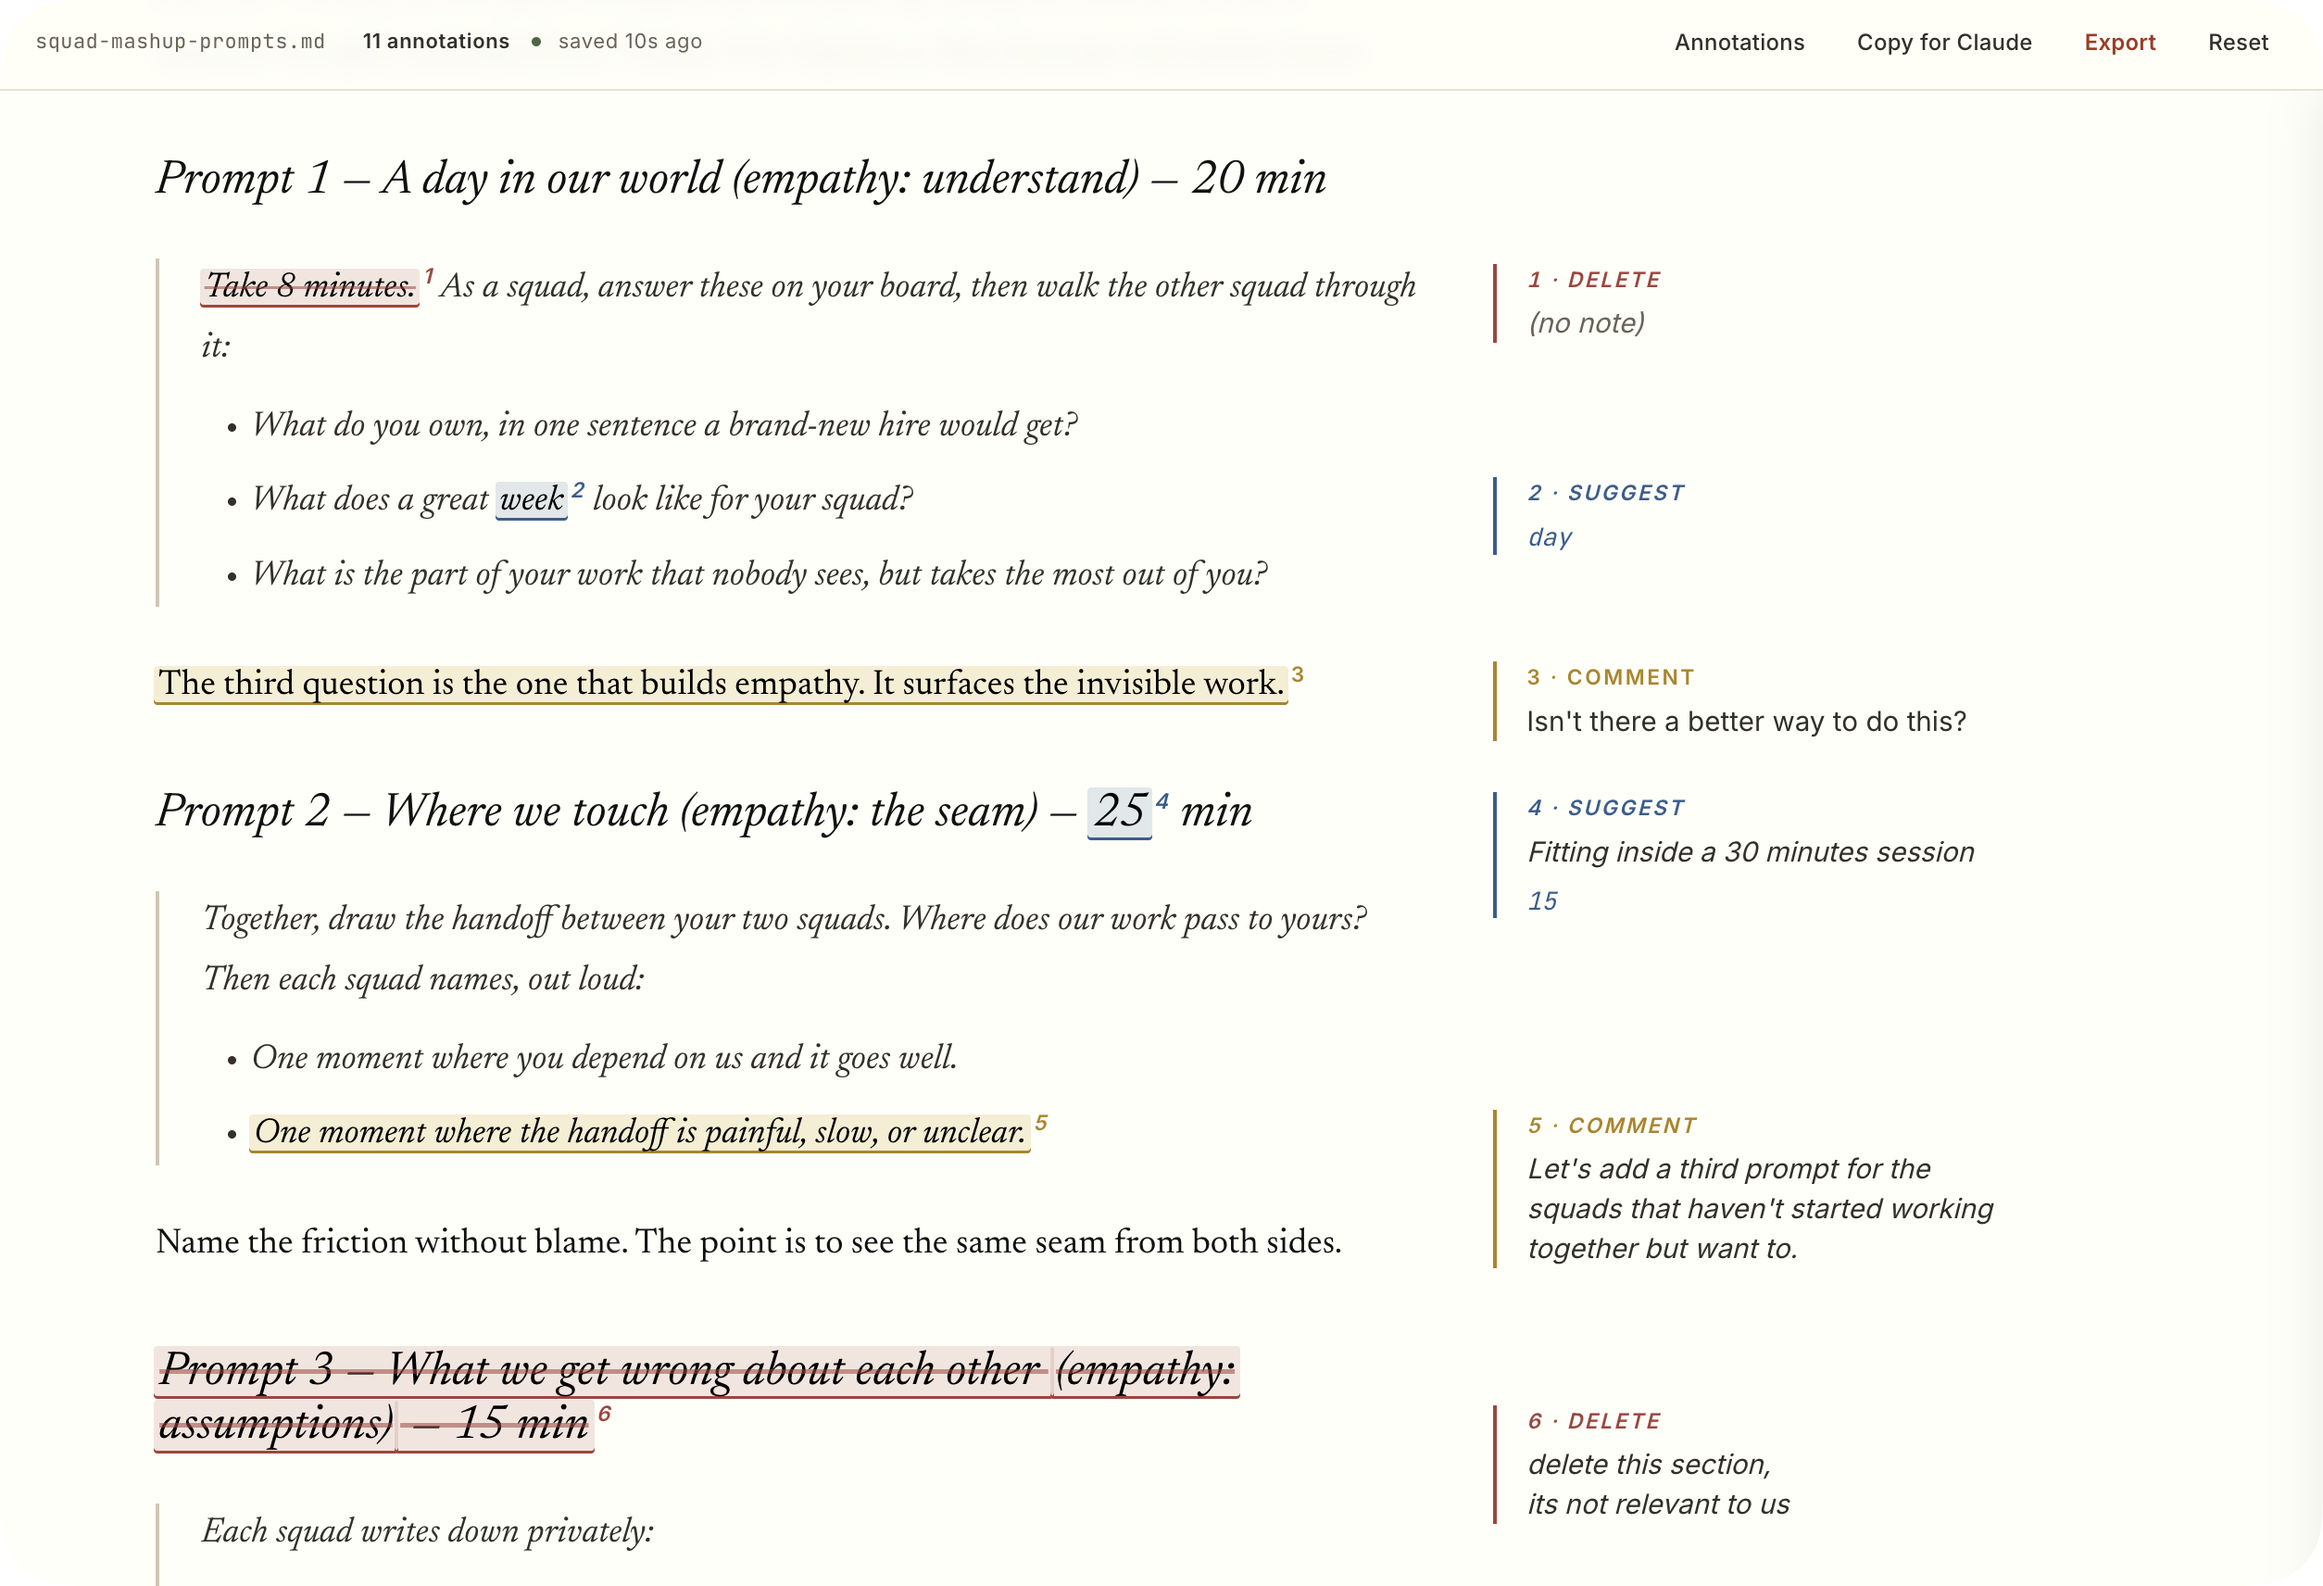
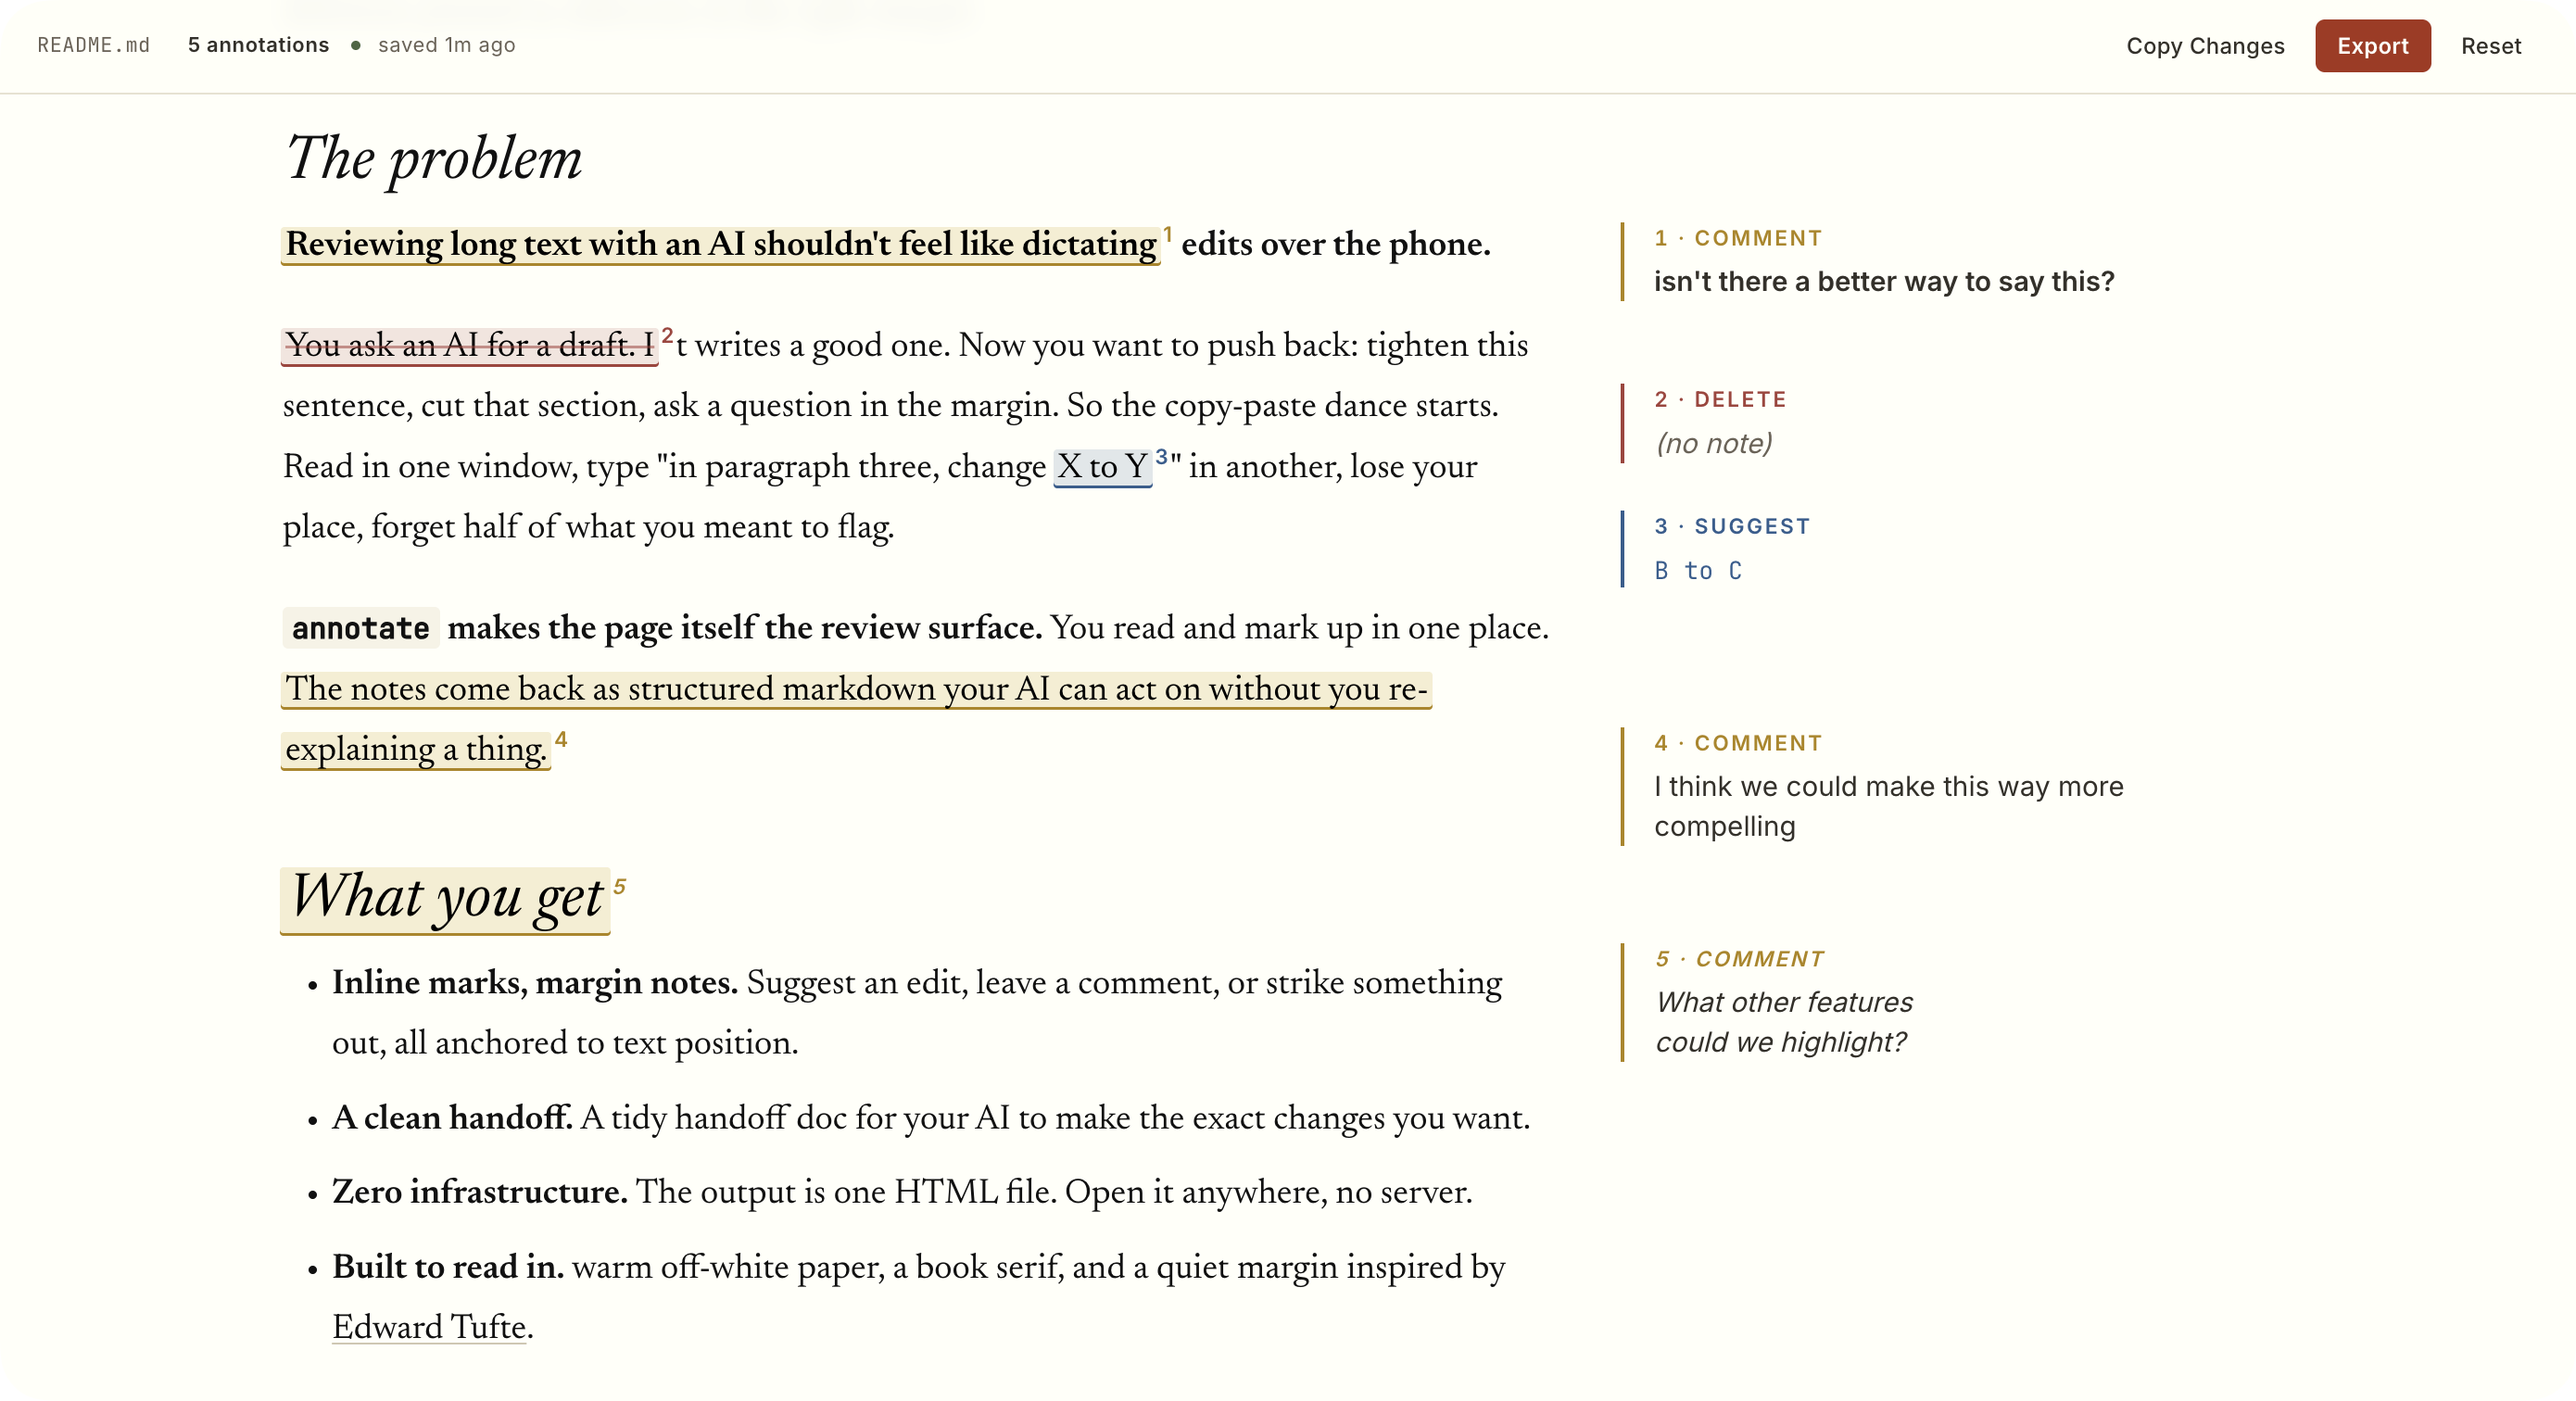
v1.1.1: paste-to-agent install snippet + new hero screenshot

diff --git a/README.md b/README.md
@@ -23,7 +23,15 @@ You ask an AI for a draft. It writes a good one. Now you want to push back: tigh
 
 ## Install
 
-annotate is a standard `SKILL.md` skill, so it drops natively into whichever agent you use.
+`annotate` is a standard `SKILL.md` skill, so it drops natively into whichever agent you use.
+
+**The easy way: paste this to your coding agent and let it install itself.**
+
+```text
+Install the annotate skill from https://github.com/jonnilundy/annotate-skill. Read the repo and set yourself up to use it the way that's native to your environment, then use it whenever I ask to review or annotate a markdown file.
+```
+
+Or set it up manually:
 
 <details>
 <summary><b>Claude Code</b></summary>
@@ -50,7 +58,7 @@ cp -r annotate-skill/plugins/annotate/skills/annotate ~/.cursor/skills/annotate
 </details>
 
 <details>
-<summary><b>Codex CLI (and ChatGPT's Codex)</b></summary>
+<summary><b>Codex</b></summary>
 
 Codex auto-discovers skills from `~/.agents/skills/` (global) or `.agents/skills/` anywhere between your working directory and the repo root. Drop the folder in and start a new session:
 
@@ -86,7 +94,7 @@ Most review tools are loud. This one is quiet on purpose. The text sits in a nar
 
 ## Requirements
 
-- Python 3 (standard library only) to generate the review file
+- Python 3 to generate the review file
 
 ## License
 
